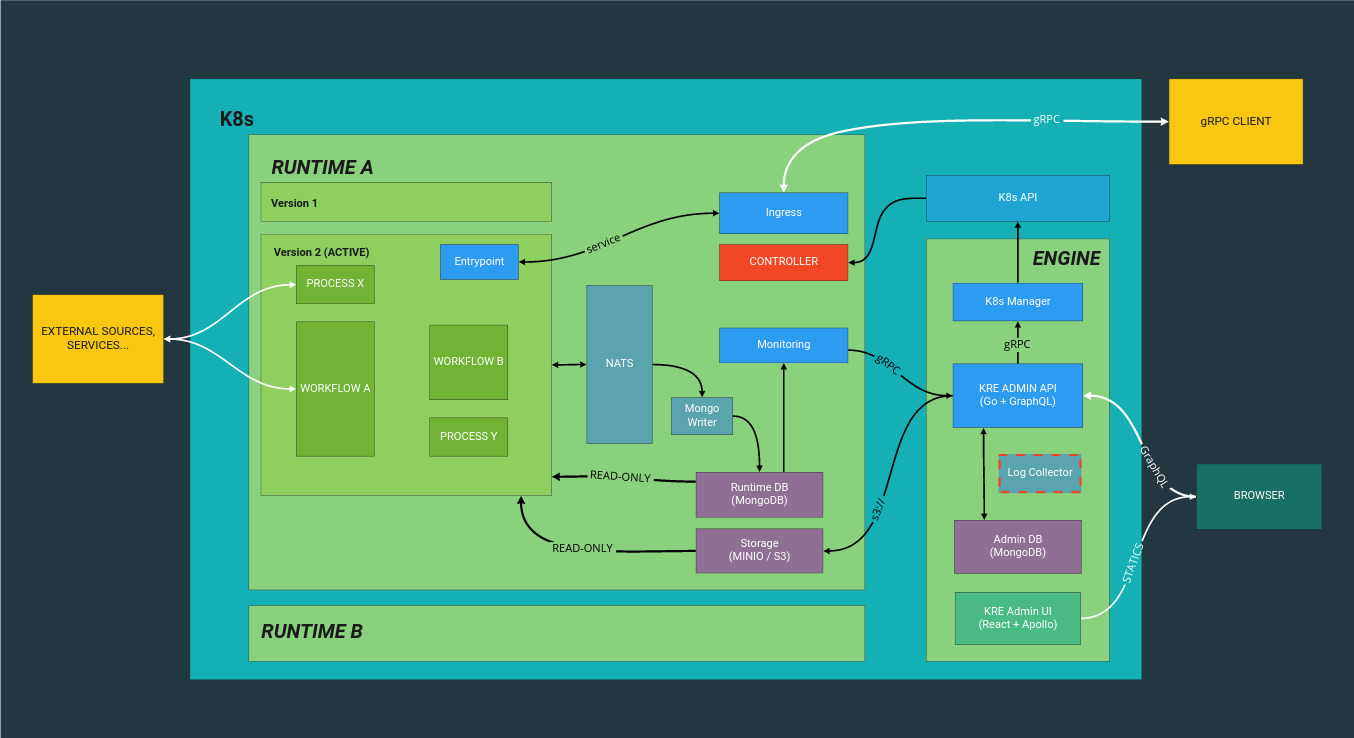
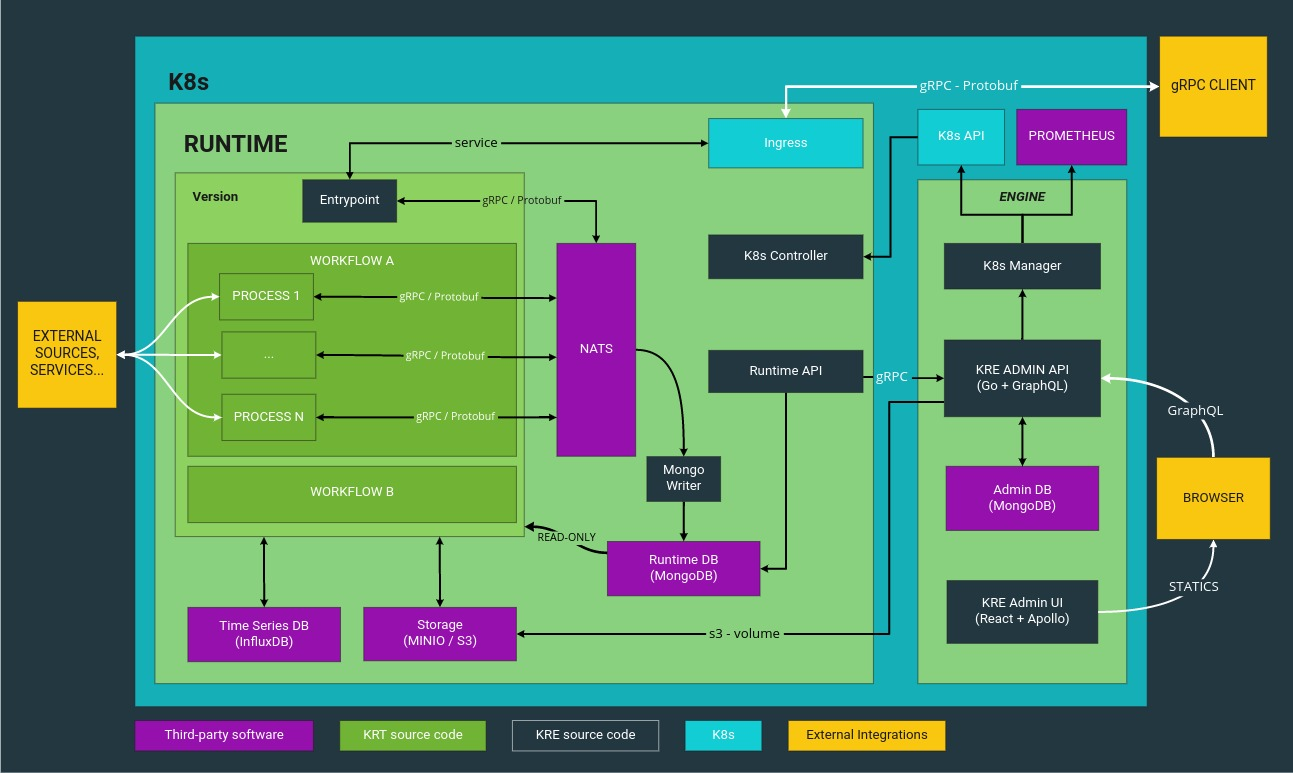
add monoruntime documentation to README

diff --git a/README.md b/README.md
@@ -6,6 +6,7 @@
   - [Engine](#engine-1)
   - [Runtime](#runtime-1)
     - [KRT](#krt)
+  - [Monoruntime Mode](#monoruntime-mode)
 - [Install](#install)
   - [Custom Installation](#custom-installation)
     - [Prometheus](#prometheus)
@@ -13,6 +14,7 @@
   - [Requirements](#requirements)
   - [Local Environment](#local-environment)
     - [Login](#login)
+    - [Monoruntime](#monoruntime)
 
 # KRE (Konstellation Runtime Engine)
 
@@ -51,9 +53,9 @@ Below are described the main concepts of KRE.
 
 ## Engine
 
-When you install KRE in your Kubernetes cluster a Namespace called `kre` is created and within this are deployed some 
-components. These components are responsible to create new runtimes and expose all the required information to the 
-Admin UI.
+When you install KRE in your Kubernetes cluster a Namespace called `kre` is created and within this are deployed some
+components. These components are responsible to create new runtimes and expose all the required information to the Admin
+UI.
 
 The Engine is composed by the following components:
 
@@ -80,10 +82,10 @@ Each Runtime is composed by the following components:
 
 ### KRT
 
-Konstellation Runtime Transport is a compressed file with the definition of a runtime version, included the code to 
-run and a YAML file called `kre.yaml` with the desired workflows definitions.
+Konstellation Runtime Transport is a compressed file with the definition of a runtime version, included the code to run,
+and a YAML file called `kre.yaml` with the desired workflows definitions.
 
-The base structure of a `kre.yaml` is as follow:
+The base structure of a `kre.yaml` is as follows:
 
 ```yaml
 version: my-project-v1
@@ -130,17 +132,49 @@ workflows:
 
 ```
 
+## Monoruntime mode
+
+There is a single architecture that can be used that only needs a single Kubernetes namespace as shown on the following
+image:
+
+![Monoruntime Architecture](.github/images/kre-monoruntime-architecture.jpg)
+
 # Install
 
-KRE can be installed only on top of a Kubernetes cluster, and is packetized as a Helm Chart. In order to install it 
-just need to download the desired Chart version, define your custom `values.yaml` and run the following command.
+KRE can be installed only on top of a Kubernetes cluster, and is packetized as a Helm Chart. As explained on the
+architecture section, there are two ways of installation, **normal mode** and **monoruntime mode**.
+
+First, add the repository to helm:
 
 ```bash
-helm repo add konstellation-ce https://charts.konstellation.io
-helm upgrade --install --namespace kre --values ./custom-values.yaml kre-v1.0.0
+helm repo add konstellation-io https://charts.konstellation.io
+helm repo update
 ```
 
+Then, in order to install it just needs to add Chart repository to your helm and, define your custom `values.yaml` and
+run one of the following commands:
+
+- **Normal Installation**
+
+```bash
+helm upgrade --install kre --namespace kre \
+ --values ./custom-values.yaml \
+ konstellation-io/kre
+```
+
+- **Monoruntime Installation**
+
+```bash
+helm upgrade --install kre-monoruntime --namespace kre-monoruntime \
+  --values ./custom-monoruntime-values.yaml \ 
+  konstellation-io/kre-monoruntime
+```
+
+***NOTE***: You can check default values for each installation, [normal](./helm/kre/values.yaml) or
+[monoruntime](./helm/kre-monoruntime/values.yaml).
+
 ## Custom Installation
+
 KRE allows a custom configuration to use parts that already exist in your infrastructure.
 
 ### Prometheus
@@ -150,6 +184,7 @@ KRE allows a custom configuration to use parts that already exist in your infras
 |       Param                | Value |
 | -------------------------- | ----- |
 | prometheusOperator.enabled | false |
+
 
 # Development 
 
@@ -169,8 +204,8 @@ In order to start development on this project you will need these tools:
 
 This repo contains a tool called `./krectl.sh` to handle common actions you need during development.
 
-All the configuration needed to run  KRE locally can be found in `.krectl.conf` file. Usually you'd be ok with the default values.
-Check Minikube parameters if you need to tweak the resources assigned to it.
+All the configuration needed to run KRE locally can be found in `.krectl.conf` file. Usually you'd be ok with the
+default values. Check Minikube parameters if you need to tweak the resources assigned to it.
 
 Run help to get info for each command:
 
@@ -199,9 +234,10 @@ $> krectl.sh [command] --help
 
 ### Login
 
-First of all remember to edit your `/etc/hosts`, see `./krectl.sh dev` output for more details.
+First, remember to edit your `/etc/hosts`, see `./krectl.sh dev` output for more details.
 
-NOTE: If you have [hostctl](https://github.com/guumaster/hostctl) installed, updating `/etc/hosts` will be done automatically too.
+NOTE: If you have [hostctl](https://github.com/guumaster/hostctl) installed, updating `/etc/hosts` will be done
+automatically too.
 
 In order to access the admin app, the login process can be done automatically using this script:
 
@@ -220,6 +256,17 @@ You will see an output like this:
 
 ✔  Done.
 ```
+
+### Monoruntime
+
+To start KRE as a single `namespace` installation and in `MONORUNTIME_MODE`, you can use `./krectl.sh` as follows:
+
+```
+$ ./krectl.sh dev --monoruntime
+```
+
+It will install everything in the namespace specified in your development `.kreconf` file.
+
 
 [admin-ui-coverage]: https://sonarcloud.io/api/project_badges/measure?project=konstellation-io_kre_admin_ui&metric=coverage
 
